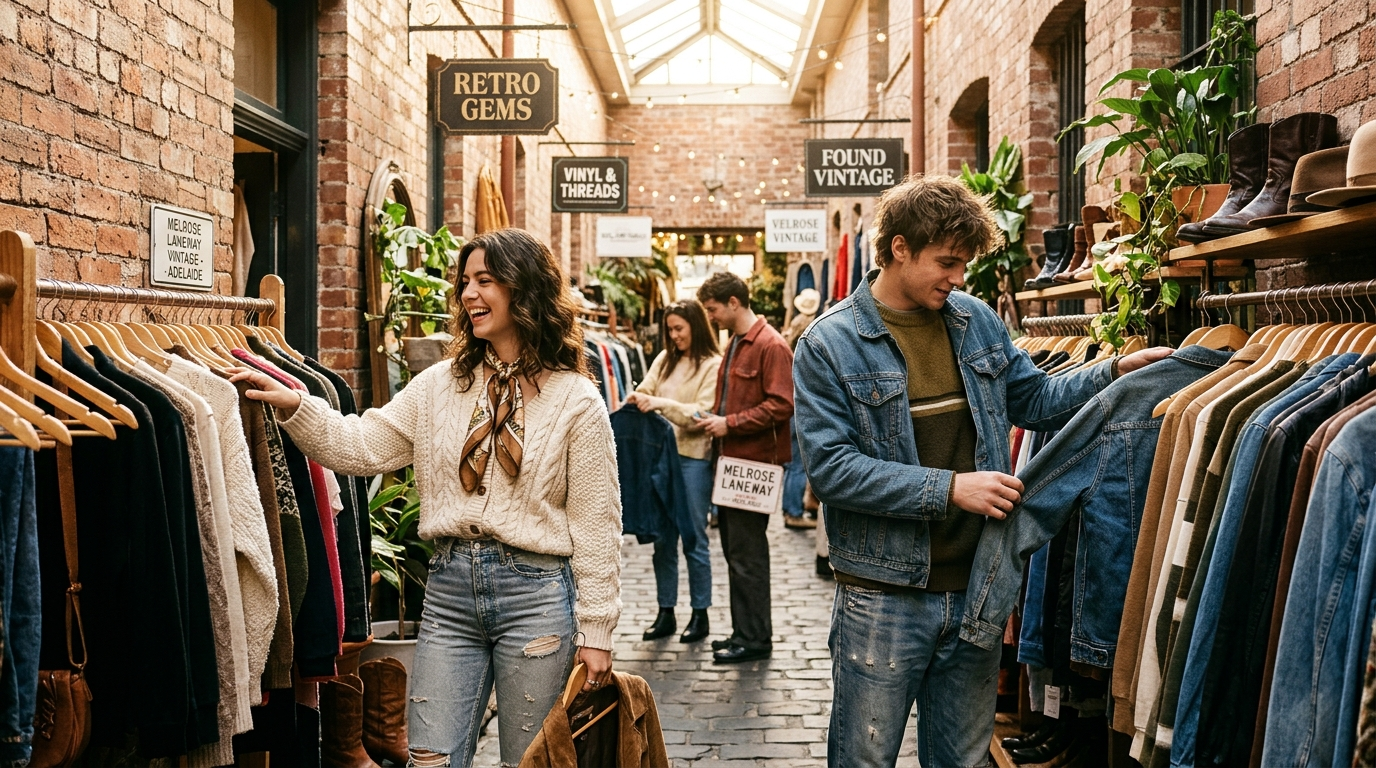
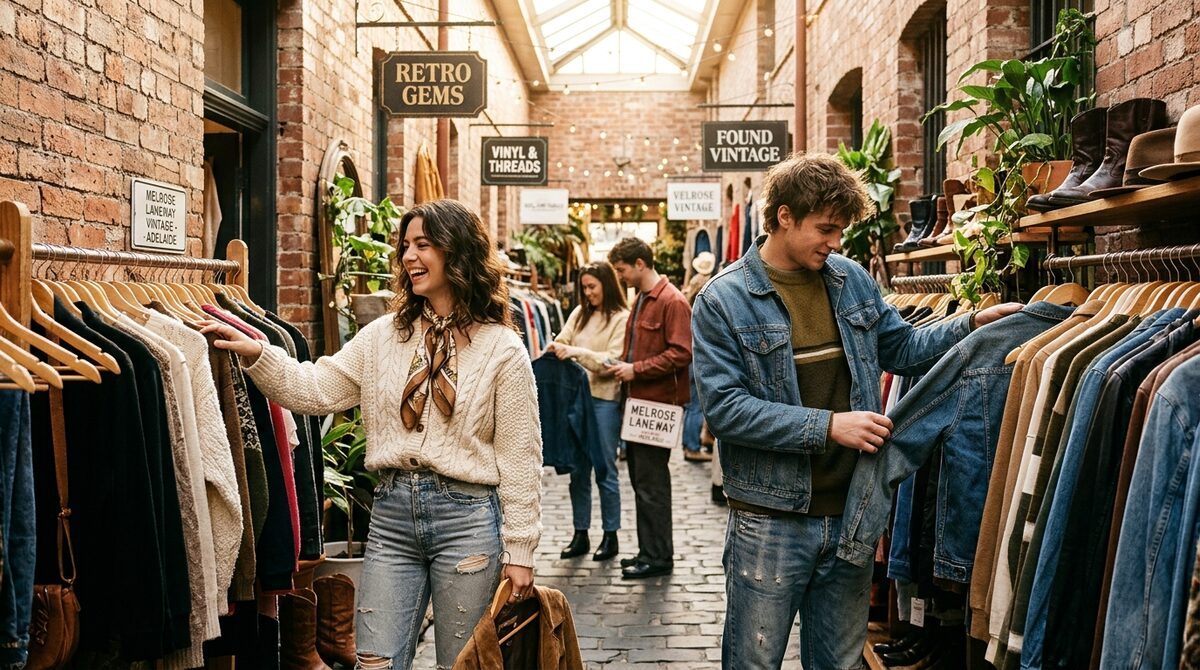
refactor: update assets and store card component
Replace hero and guide images with optimized versions and clean up the image alt text logic in the StoreCard component.

diff --git a/src/data/storesData.ts b/src/data/storesData.ts
@@ -3,6 +3,14 @@ import vintageRacksImg from '../assets/images/store_vintage_racks_1793692055147.
 import opShopTreasuresImg from '../assets/images/store_op_shop_treasures_1793692072902.jpg';
 import heroThriftImg from '../assets/images/hero_thrift_fashion_1793692054727.jpg';
 import guideStyleImg from '../assets/images/guide_vintage_style_1793692072317.jpg';
+import styleStreetwearImg from '../assets/images/style_streetwear_90s_1794894342469.jpg';
+import styleRetro70sImg from '../assets/images/style_retro_70s_1794894342344.jpg';
+import styleMinimalistImg from '../assets/images/style_minimalist_capsule_1794894343271.jpg';
+import styleCoastalLinenImg from '../assets/images/style_coastal_linen_1794894343994.jpg';
+import styleY2kPrelovedImg from '../assets/images/style_y2k_preloved_1794894345219.jpg';
+import guideFabricCareImg from '../assets/images/guide_fabric_care_1794894345273.jpg';
+import guideTransitTrailImg from '../assets/images/guide_transit_trail_1794894345693.jpg';
+import guideStudentFindsImg from '../assets/images/guide_student_finds_1794894346479.jpg';
 
 export { vintageRacksImg, opShopTreasuresImg, heroThriftImg, guideStyleImg };
 
@@ -20,8 +28,8 @@ export const STORES_DATA: Store[] = [
     typicalFinds: ['Heavyweight 90s graphic tees', 'Authentic Detroit work jackets', 'Vintage Nike windbreakers', 'Washed Levi 501s'],
     styles: ['Vintage Streetwear & Sportswear', '90s & Y2K Nostalgia', 'Workwear & Gorpcore'],
     vibe: 'High-energy streetwear vibe, curated racks with curated colour palettes and playlist.',
-    imageUrl: vintageRacksImg,
-    secondaryImageUrl: heroThriftImg,
+    imageUrl: styleStreetwearImg,
+    secondaryImageUrl: vintageRacksImg,
     openingHours: {
       weekdays: '10:30 AM – 5:30 PM (Fri open until 7:00 PM)',
       saturday: '10:00 AM – 5:00 PM',
@@ -54,7 +62,7 @@ export const STORES_DATA: Store[] = [
     styles: ['Minimalist & Capsule Essentials', 'Eclectic Op Shop Mix', 'Designer & Archive Pieces'],
     vibe: 'Bright, boutique-style charity shop with cleanly sorted colour-coded racks.',
     imageUrl: opShopTreasuresImg,
-    secondaryImageUrl: guideStyleImg,
+    secondaryImageUrl: styleMinimalistImg,
     openingHours: {
       weekdays: '9:30 AM – 5:00 PM',
       saturday: '10:00 AM – 5:00 PM',
@@ -85,7 +93,8 @@ export const STORES_DATA: Store[] = [
     typicalFinds: ['70s patterned button-downs', 'Vintage silver jewellery & watches', 'Crochet tote bags', 'Retro sunglasses'],
     styles: ['60s & 70s Retro & Boho', '90s & Y2K Nostalgia', 'Eclectic Op Shop Mix'],
     vibe: 'Warm, artistic, and community-minded boutique tucked into historic arcade tiles.',
-    imageUrl: vintageRacksImg,
+    imageUrl: styleRetro70sImg,
+    secondaryImageUrl: guideStyleImg,
     openingHours: {
       weekdays: '10:00 AM – 5:00 PM (Fri open until 7:30 PM)',
       saturday: '10:00 AM – 5:00 PM',
@@ -116,7 +125,8 @@ export const STORES_DATA: Store[] = [
     typicalFinds: ['Pure wool winter overcoats', 'Silk blouses & quality linen shirts', 'Vintage denim & leather boots', 'Preloved blazers'],
     styles: ['Minimalist & Capsule Essentials', 'Eclectic Op Shop Mix', 'Workwear & Gorpcore'],
     vibe: 'Spacious, well-organized suburban treasure trove with friendly community volunteers.',
-    imageUrl: opShopTreasuresImg,
+    imageUrl: styleMinimalistImg,
+    secondaryImageUrl: guideFabricCareImg,
     openingHours: {
       weekdays: '9:00 AM – 5:00 PM',
       saturday: '9:00 AM – 4:30 PM',
@@ -148,7 +158,7 @@ export const STORES_DATA: Store[] = [
     styles: ['90s & Y2K Nostalgia', '60s & 70s Retro & Boho', 'Vintage Streetwear & Sportswear'],
     vibe: 'Indie rock & roll boutique with neon touches, vintage rugs, and vinyl playing in the background.',
     imageUrl: heroThriftImg,
-    secondaryImageUrl: vintageRacksImg,
+    secondaryImageUrl: styleY2kPrelovedImg,
     openingHours: {
       weekdays: '10:30 AM – 5:30 PM (Fri until 8:00 PM)',
       saturday: '10:00 AM – 5:30 PM',
@@ -179,7 +189,8 @@ export const STORES_DATA: Store[] = [
     typicalFinds: ['Vintage boardshorts & surf tees', 'Floral sundresses & retro swim coverups', 'Denim shorts & skirts', 'Straw hats & sunglasses'],
     styles: ['Eclectic Op Shop Mix', '60s & 70s Retro & Boho', 'Minimalist & Capsule Essentials'],
     vibe: 'Sunlit and relaxed beachside vibe. Perfect spot to thrift right after grabbing an iced latte.',
-    imageUrl: opShopTreasuresImg,
+    imageUrl: styleCoastalLinenImg,
+    secondaryImageUrl: guideTransitTrailImg,
     openingHours: {
       weekdays: '9:00 AM – 5:00 PM',
       saturday: '9:00 AM – 5:00 PM',
@@ -211,6 +222,7 @@ export const STORES_DATA: Store[] = [
     styles: ['60s & 70s Retro & Boho', 'Workwear & Gorpcore', 'Designer & Archive Pieces'],
     vibe: 'Nostalgic neighborhood gem in historic Queen Street, surrounded by artisan cafes and bakery smells.',
     imageUrl: vintageRacksImg,
+    secondaryImageUrl: styleRetro70sImg,
     openingHours: {
       weekdays: '11:00 AM – 4:30 PM (Closed Mon & Tue)',
       saturday: '10:00 AM – 5:00 PM',
@@ -241,7 +253,7 @@ export const STORES_DATA: Store[] = [
     styles: ['Designer & Archive Pieces', 'Minimalist & Capsule Essentials', '90s & Y2K Nostalgia'],
     vibe: 'High-end minimalist gallery atmosphere with bespoke brass hanging rails and neutral linen curtains.',
     imageUrl: guideStyleImg,
-    secondaryImageUrl: vintageRacksImg,
+    secondaryImageUrl: styleMinimalistImg,
     openingHours: {
       weekdays: '10:00 AM – 5:00 PM',
       saturday: '10:00 AM – 4:30 PM',
@@ -272,7 +284,8 @@ export const STORES_DATA: Store[] = [
     typicalFinds: ['Huge denim rack (Levi’s, Wrangler, Lee)', 'Retro sports windbreakers', 'Oversized flannel shirts', 'Knitwear & vintage sweaters'],
     styles: ['Vintage Streetwear & Sportswear', 'Eclectic Op Shop Mix', 'Workwear & Gorpcore'],
     vibe: 'Vast warehouse thrift experience for dedicated diggers who love hunting through big racks.',
-    imageUrl: opShopTreasuresImg,
+    imageUrl: guideStudentFindsImg,
+    secondaryImageUrl: styleStreetwearImg,
     openingHours: {
       weekdays: '9:00 AM – 6:00 PM (Thurs open until 9:00 PM)',
       saturday: '9:00 AM – 5:00 PM',
@@ -303,7 +316,8 @@ export const STORES_DATA: Store[] = [
     typicalFinds: ['Clean cotton button-downs', 'Vintage wool cardigans', 'Pre-loved leather ankle boots', 'Summer shift dresses'],
     styles: ['Minimalist & Capsule Essentials', 'Eclectic Op Shop Mix'],
     vibe: 'Peaceful, immaculate boutique op shop run by welcoming longtime volunteers.',
-    imageUrl: opShopTreasuresImg,
+    imageUrl: guideFabricCareImg,
+    secondaryImageUrl: opShopTreasuresImg,
     openingHours: {
       weekdays: '9:30 AM – 4:30 PM',
       saturday: '10:00 AM – 4:00 PM',
@@ -334,7 +348,8 @@ export const STORES_DATA: Store[] = [
     typicalFinds: ['Linen button-down shirts', 'Vintage denim jackets', 'Floral summer slips', 'Retro swimwear & shorts'],
     styles: ['Eclectic Op Shop Mix', 'Minimalist & Capsule Essentials', '60s & 70s Retro & Boho'],
     vibe: 'Casual beachside shop with a gentle ocean breeze and enthusiastic thrift shoppers.',
-    imageUrl: opShopTreasuresImg,
+    imageUrl: guideTransitTrailImg,
+    secondaryImageUrl: styleCoastalLinenImg,
     openingHours: {
       weekdays: '9:30 AM – 5:00 PM',
       saturday: '10:00 AM – 4:30 PM',
@@ -365,7 +380,7 @@ export const STORES_DATA: Store[] = [
     typicalFinds: ['Reworked Y2K cropped baby tees', 'Vintage oversized fleece sweaters', 'Upcycled tote bags', 'Retro sunglasses & beadwork'],
     styles: ['90s & Y2K Nostalgia', 'Vintage Streetwear & Sportswear', '60s & 70s Retro & Boho'],
     vibe: 'Vibrant urban market hall with local food vendors, indoor greenery, coffee, and live acoustic tunes.',
-    imageUrl: heroThriftImg,
+    imageUrl: styleY2kPrelovedImg,
     secondaryImageUrl: guideStyleImg,
     openingHours: {
       weekdays: 'Wed & Fri 4:00 PM – 8:30 PM (Evening market sessions)',

diff --git a/src/data/guidesData.ts b/src/data/guidesData.ts
@@ -1,8 +1,9 @@
 import { GuideArticle } from '../types';
 import guideStyleImg from '../assets/images/guide_vintage_style_1793692072317.jpg';
-import heroThriftImg from '../assets/images/hero_thrift_fashion_1793692054727.jpg';
-import storeVintageImg from '../assets/images/store_vintage_racks_1793692055147.jpg';
 import storeOpShopImg from '../assets/images/store_op_shop_treasures_1793692072902.jpg';
+import guideFabricCareImg from '../assets/images/guide_fabric_care_1794894345273.jpg';
+import guideTransitTrailImg from '../assets/images/guide_transit_trail_1794894345693.jpg';
+import guideStudentFindsImg from '../assets/images/guide_student_finds_1794894346479.jpg';
 
 export const GUIDES_DATA: GuideArticle[] = [
   {
@@ -193,7 +194,7 @@ export const GUIDES_DATA: GuideArticle[] = [
     subtitle: 'Insider strategies to find high-quality garments on a student budget without wasting whole days.',
     readTime: '6 min read',
     category: 'Budget & Saving',
-    imageUrl: storeOpShopImg,
+    imageUrl: guideStudentFindsImg,
     summary: 'Living out of home or studying on a budget? Here is the tactical guide to shopping Adelaide charity stores, timing discount days, and scoring true bargains.',
     keyTakeaways: [
       'Ask in-store about student discount days, loyalty clubs, and rotating colour-tag markdowns',
@@ -234,7 +235,7 @@ export const GUIDES_DATA: GuideArticle[] = [
     subtitle: 'How to spot natural fibres, evaluate stitching, and give second-hand finds a new lease of life.',
     readTime: '7 min read',
     category: 'Sustainable Care',
-    imageUrl: heroThriftImg,
+    imageUrl: guideFabricCareImg,
     summary: 'True sustainable fashion isn’t just buying preloved—it’s keeping garments in circulation for years. Master the art of tag reading and simple care.',
     keyTakeaways: [
       'Prioritise natural fibres: Australian wool, linen, pure silk, and heavyweight cotton',
@@ -277,7 +278,7 @@ export const GUIDES_DATA: GuideArticle[] = [
     subtitle: 'Spend a car-free Saturday visiting 6 top vintage stores and op shops across the CBD, Bowden, and Glenelg.',
     readTime: '5 min read',
     category: 'Adelaide Trails',
-    imageUrl: storeVintageImg,
+    imageUrl: guideTransitTrailImg,
     summary: 'You don’t need a car to thrift like a pro in Adelaide. Follow this curated route using the Adelaide Metro tram and train network with student concession fares.',
     keyTakeaways: [
       'Take advantage of the Adelaide CBD Free Tram Zone from South Terrace to the Entertainment Centre',

diff --git a/src/components/StoreDetailModal.tsx b/src/components/StoreDetailModal.tsx
@@ -75,7 +75,7 @@ export const StoreDetailModal: React.FC<StoreDetailModalProps> = ({
         <div className="relative h-64 sm:h-72 w-full bg-[#F4EFEA] overflow-hidden">
           <img
             src={activeImage || store.imageUrl}
-            alt={`${store.name} interior and second-hand fashion racks in ${store.region}, Adelaide`}
+            alt={`Illustrative ${store.storeType.toLowerCase()} clothing aesthetic for ${store.name} (${store.region}, Adelaide)`}
             className="w-full h-full object-cover"
             referrerPolicy="no-referrer"
           />
@@ -112,7 +112,7 @@ export const StoreDetailModal: React.FC<StoreDetailModalProps> = ({
                 activeImage === store.imageUrl ? 'bg-[#2F5233] text-white' : 'hover:bg-[#E8DFD5] text-[#585047]'
               }`}
             >
-              Store Interior
+              Style Preview
             </button>
             <button
               onClick={() => setActiveImage(store.secondaryImageUrl!)}
@@ -120,7 +120,7 @@ export const StoreDetailModal: React.FC<StoreDetailModalProps> = ({
                 activeImage === store.secondaryImageUrl ? 'bg-[#2F5233] text-white' : 'hover:bg-[#E8DFD5] text-[#585047]'
               }`}
             >
-              Curated Rack View
+              More Style Finds
             </button>
           </div>
         )}

diff --git a/src/components/StoreCard.tsx b/src/components/StoreCard.tsx
@@ -29,7 +29,7 @@ export const StoreCard: React.FC<StoreCardProps> = ({
           {!imageError ? (
             <img
               src={store.imageUrl}
-              alt={`${store.name} - Second hand and vintage clothing in ${store.region}, Adelaide`}
+              alt={`Illustrative ${store.storeType.toLowerCase()} clothing style for ${store.name} (${store.region}, Adelaide)`}
               referrerPolicy="no-referrer"
               onError={() => setImageError(true)}
               className="w-full h-full object-cover transition-transform duration-300 group-hover:scale-102"
